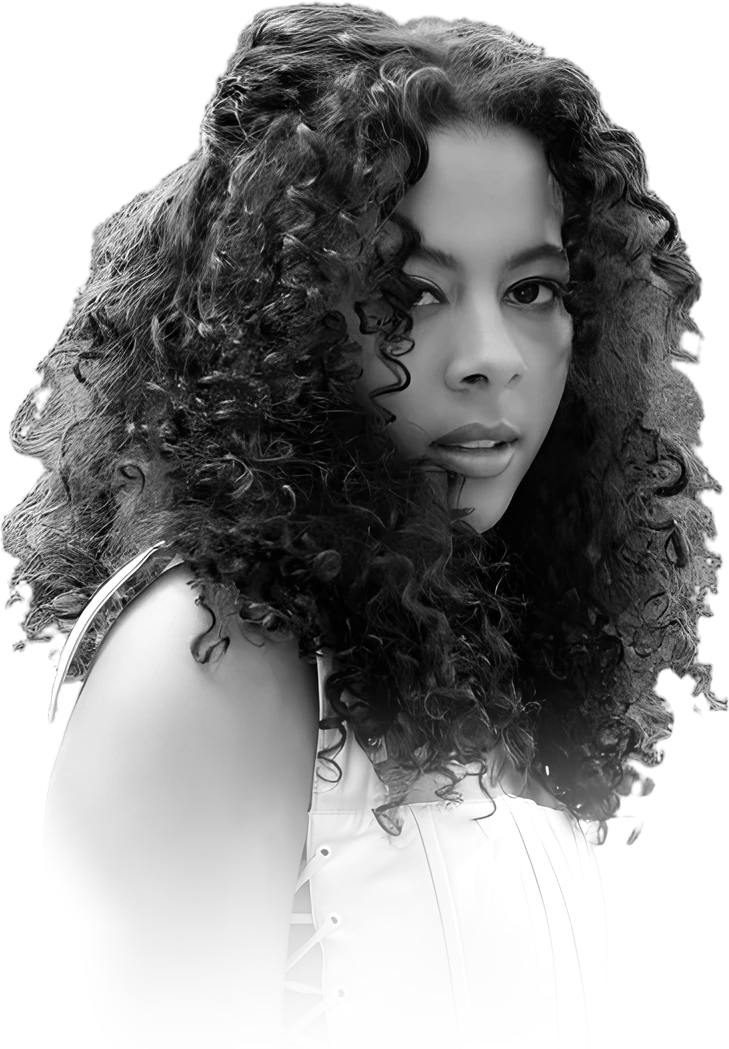
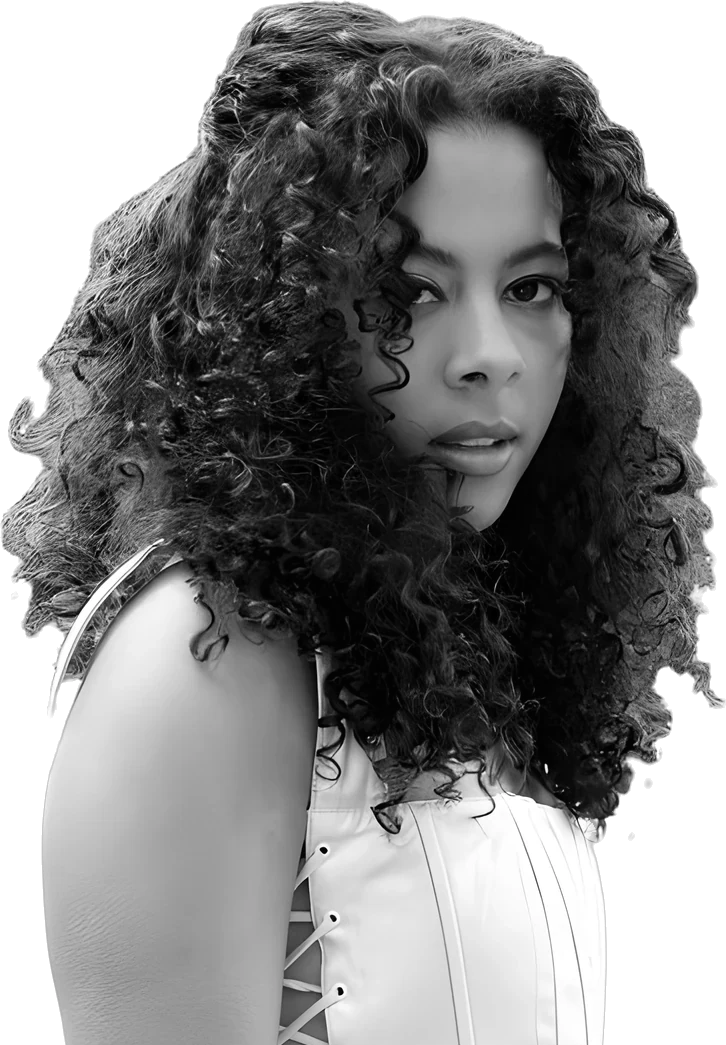
Real Instagram and Yelp links, remove Facebook; cleaner curly-hair cutout edges

diff --git a/v3/index.html b/v3/index.html
@@ -54,7 +54,7 @@
       <div class="hero-model">
         <img class="trio-side trio-left" src="../images/hero-trio-right.webp" alt="Client with a sleek, glossy blunt bob" width="1130" height="1146">
         <img class="trio-center" src="../images/hero-model-v3.webp" alt="Client with full, voluminous natural curls" width="1807" height="1443" fetchpriority="high">
-        <img class="trio-side trio-right" src="../images/hero-trio-left.webp" alt="Client with long, defined spiral curls" width="729" height="1049">
+        <img class="trio-side trio-right" src="../images/hero-trio-left.webp" alt="Client with long, defined spiral curls" width="726" height="1045">
       </div>
       <p class="hero-sub">Cut, color, and curls, <span class="nowrap">done beautifully.</span></p>
       <a href="#book" class="btn btn-bar book-btn">Book an appointment</a>
@@ -207,7 +207,7 @@
         </div>
         <div class="reviews-proof">
           <img src="../images/yelp_5_star_business_image.png" alt="Yelp 5-Star Business badge" loading="lazy">
-          <a class="text-link" href="stylists.html">Read more reviews</a>
+          <a class="text-link" href="https://www.yelp.com/biz/luna-y-sol-pasadena" target="_blank" rel="noopener">Read more reviews on Yelp</a>
         </div>
       </div>
     </section>
@@ -262,9 +262,8 @@
         <div class="footer-col">
           <h2>Follow</h2>
           <ul>
-            <li><a href="#">Instagram</a></li>
-            <li><a href="#">Yelp</a></li>
-            <li><a href="#">Facebook</a></li>
+            <li><a href="https://www.instagram.com/lunaysol_curllab/" target="_blank" rel="noopener">Instagram</a></li>
+            <li><a href="https://www.yelp.com/biz/luna-y-sol-pasadena" target="_blank" rel="noopener">Yelp</a></li>
           </ul>
         </div>
       </div>

diff --git a/v3/gallery.html b/v3/gallery.html
@@ -184,9 +184,8 @@
         <div class="footer-col">
           <h2>Follow</h2>
           <ul>
-            <li><a href="#">Instagram</a></li>
-            <li><a href="#">Yelp</a></li>
-            <li><a href="#">Facebook</a></li>
+            <li><a href="https://www.instagram.com/lunaysol_curllab/" target="_blank" rel="noopener">Instagram</a></li>
+            <li><a href="https://www.yelp.com/biz/luna-y-sol-pasadena" target="_blank" rel="noopener">Yelp</a></li>
           </ul>
         </div>
       </div>

diff --git a/v3/services.html b/v3/services.html
@@ -204,9 +204,8 @@
         <div class="footer-col">
           <h2>Follow</h2>
           <ul>
-            <li><a href="#">Instagram</a></li>
-            <li><a href="#">Yelp</a></li>
-            <li><a href="#">Facebook</a></li>
+            <li><a href="https://www.instagram.com/lunaysol_curllab/" target="_blank" rel="noopener">Instagram</a></li>
+            <li><a href="https://www.yelp.com/biz/luna-y-sol-pasadena" target="_blank" rel="noopener">Yelp</a></li>
           </ul>
         </div>
       </div>

diff --git a/v3/stylists.html b/v3/stylists.html
@@ -137,9 +137,8 @@
         <div class="footer-col">
           <h2>Follow</h2>
           <ul>
-            <li><a href="#">Instagram</a></li>
-            <li><a href="#">Yelp</a></li>
-            <li><a href="#">Facebook</a></li>
+            <li><a href="https://www.instagram.com/lunaysol_curllab/" target="_blank" rel="noopener">Instagram</a></li>
+            <li><a href="https://www.yelp.com/biz/luna-y-sol-pasadena" target="_blank" rel="noopener">Yelp</a></li>
           </ul>
         </div>
       </div>

diff --git a/v3/visit.html b/v3/visit.html
@@ -168,9 +168,8 @@
         <div class="footer-col">
           <h2>Follow</h2>
           <ul>
-            <li><a href="#">Instagram</a></li>
-            <li><a href="#">Yelp</a></li>
-            <li><a href="#">Facebook</a></li>
+            <li><a href="https://www.instagram.com/lunaysol_curllab/" target="_blank" rel="noopener">Instagram</a></li>
+            <li><a href="https://www.yelp.com/biz/luna-y-sol-pasadena" target="_blank" rel="noopener">Yelp</a></li>
           </ul>
         </div>
       </div>

diff --git a/v2/gallery.html b/v2/gallery.html
@@ -165,9 +165,8 @@
           <a href="visit.html">Visit</a>
       </nav>
       <nav class="footer-nav" aria-label="Social media">
-          <a href="#">Instagram</a>
-          <a href="#">Yelp</a>
-          <a href="#">Facebook</a>
+          <a href="https://www.instagram.com/lunaysol_curllab/" target="_blank" rel="noopener">Instagram</a>
+          <a href="https://www.yelp.com/biz/luna-y-sol-pasadena" target="_blank" rel="noopener">Yelp</a>
       </nav>
     </div>
     <div class="wrap footer-bottom">

diff --git a/v2/index.html b/v2/index.html
@@ -226,9 +226,8 @@
           <a href="visit.html">Visit</a>
       </nav>
       <nav class="footer-nav" aria-label="Social media">
-          <a href="#">Instagram</a>
-          <a href="#">Yelp</a>
-          <a href="#">Facebook</a>
+          <a href="https://www.instagram.com/lunaysol_curllab/" target="_blank" rel="noopener">Instagram</a>
+          <a href="https://www.yelp.com/biz/luna-y-sol-pasadena" target="_blank" rel="noopener">Yelp</a>
       </nav>
     </div>
     <div class="wrap footer-bottom">

diff --git a/v2/services.html b/v2/services.html
@@ -159,9 +159,8 @@
           <a href="visit.html">Visit</a>
       </nav>
       <nav class="footer-nav" aria-label="Social media">
-          <a href="#">Instagram</a>
-          <a href="#">Yelp</a>
-          <a href="#">Facebook</a>
+          <a href="https://www.instagram.com/lunaysol_curllab/" target="_blank" rel="noopener">Instagram</a>
+          <a href="https://www.yelp.com/biz/luna-y-sol-pasadena" target="_blank" rel="noopener">Yelp</a>
       </nav>
     </div>
     <div class="wrap footer-bottom">

diff --git a/v2/stylists.html b/v2/stylists.html
@@ -132,9 +132,8 @@
           <a href="visit.html">Visit</a>
       </nav>
       <nav class="footer-nav" aria-label="Social media">
-          <a href="#">Instagram</a>
-          <a href="#">Yelp</a>
-          <a href="#">Facebook</a>
+          <a href="https://www.instagram.com/lunaysol_curllab/" target="_blank" rel="noopener">Instagram</a>
+          <a href="https://www.yelp.com/biz/luna-y-sol-pasadena" target="_blank" rel="noopener">Yelp</a>
       </nav>
     </div>
     <div class="wrap footer-bottom">

diff --git a/v2/visit.html b/v2/visit.html
@@ -143,9 +143,8 @@
           <a href="visit.html">Visit</a>
       </nav>
       <nav class="footer-nav" aria-label="Social media">
-          <a href="#">Instagram</a>
-          <a href="#">Yelp</a>
-          <a href="#">Facebook</a>
+          <a href="https://www.instagram.com/lunaysol_curllab/" target="_blank" rel="noopener">Instagram</a>
+          <a href="https://www.yelp.com/biz/luna-y-sol-pasadena" target="_blank" rel="noopener">Yelp</a>
       </nav>
     </div>
     <div class="wrap footer-bottom">
